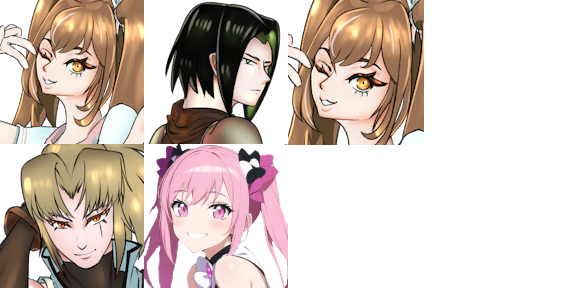
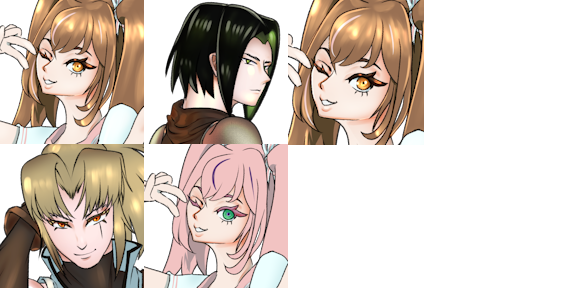
bugfix bed

Changed region(s): [[0.25, 0.5, 0.5, 1.0]]

diff --git a/abyssawakening/index.html b/abyssawakening/index.html
@@ -103,7 +103,7 @@
         <!-- VERSION -->
         <div class="panelBlock panelFooter">
           <h2>Abyss Awakening</h2>
-          <p class="muted">Demo v0.3.2</p>
+          <p class="muted">Demo v0.3.3</p>
         </div>
       </div>
     </aside>
